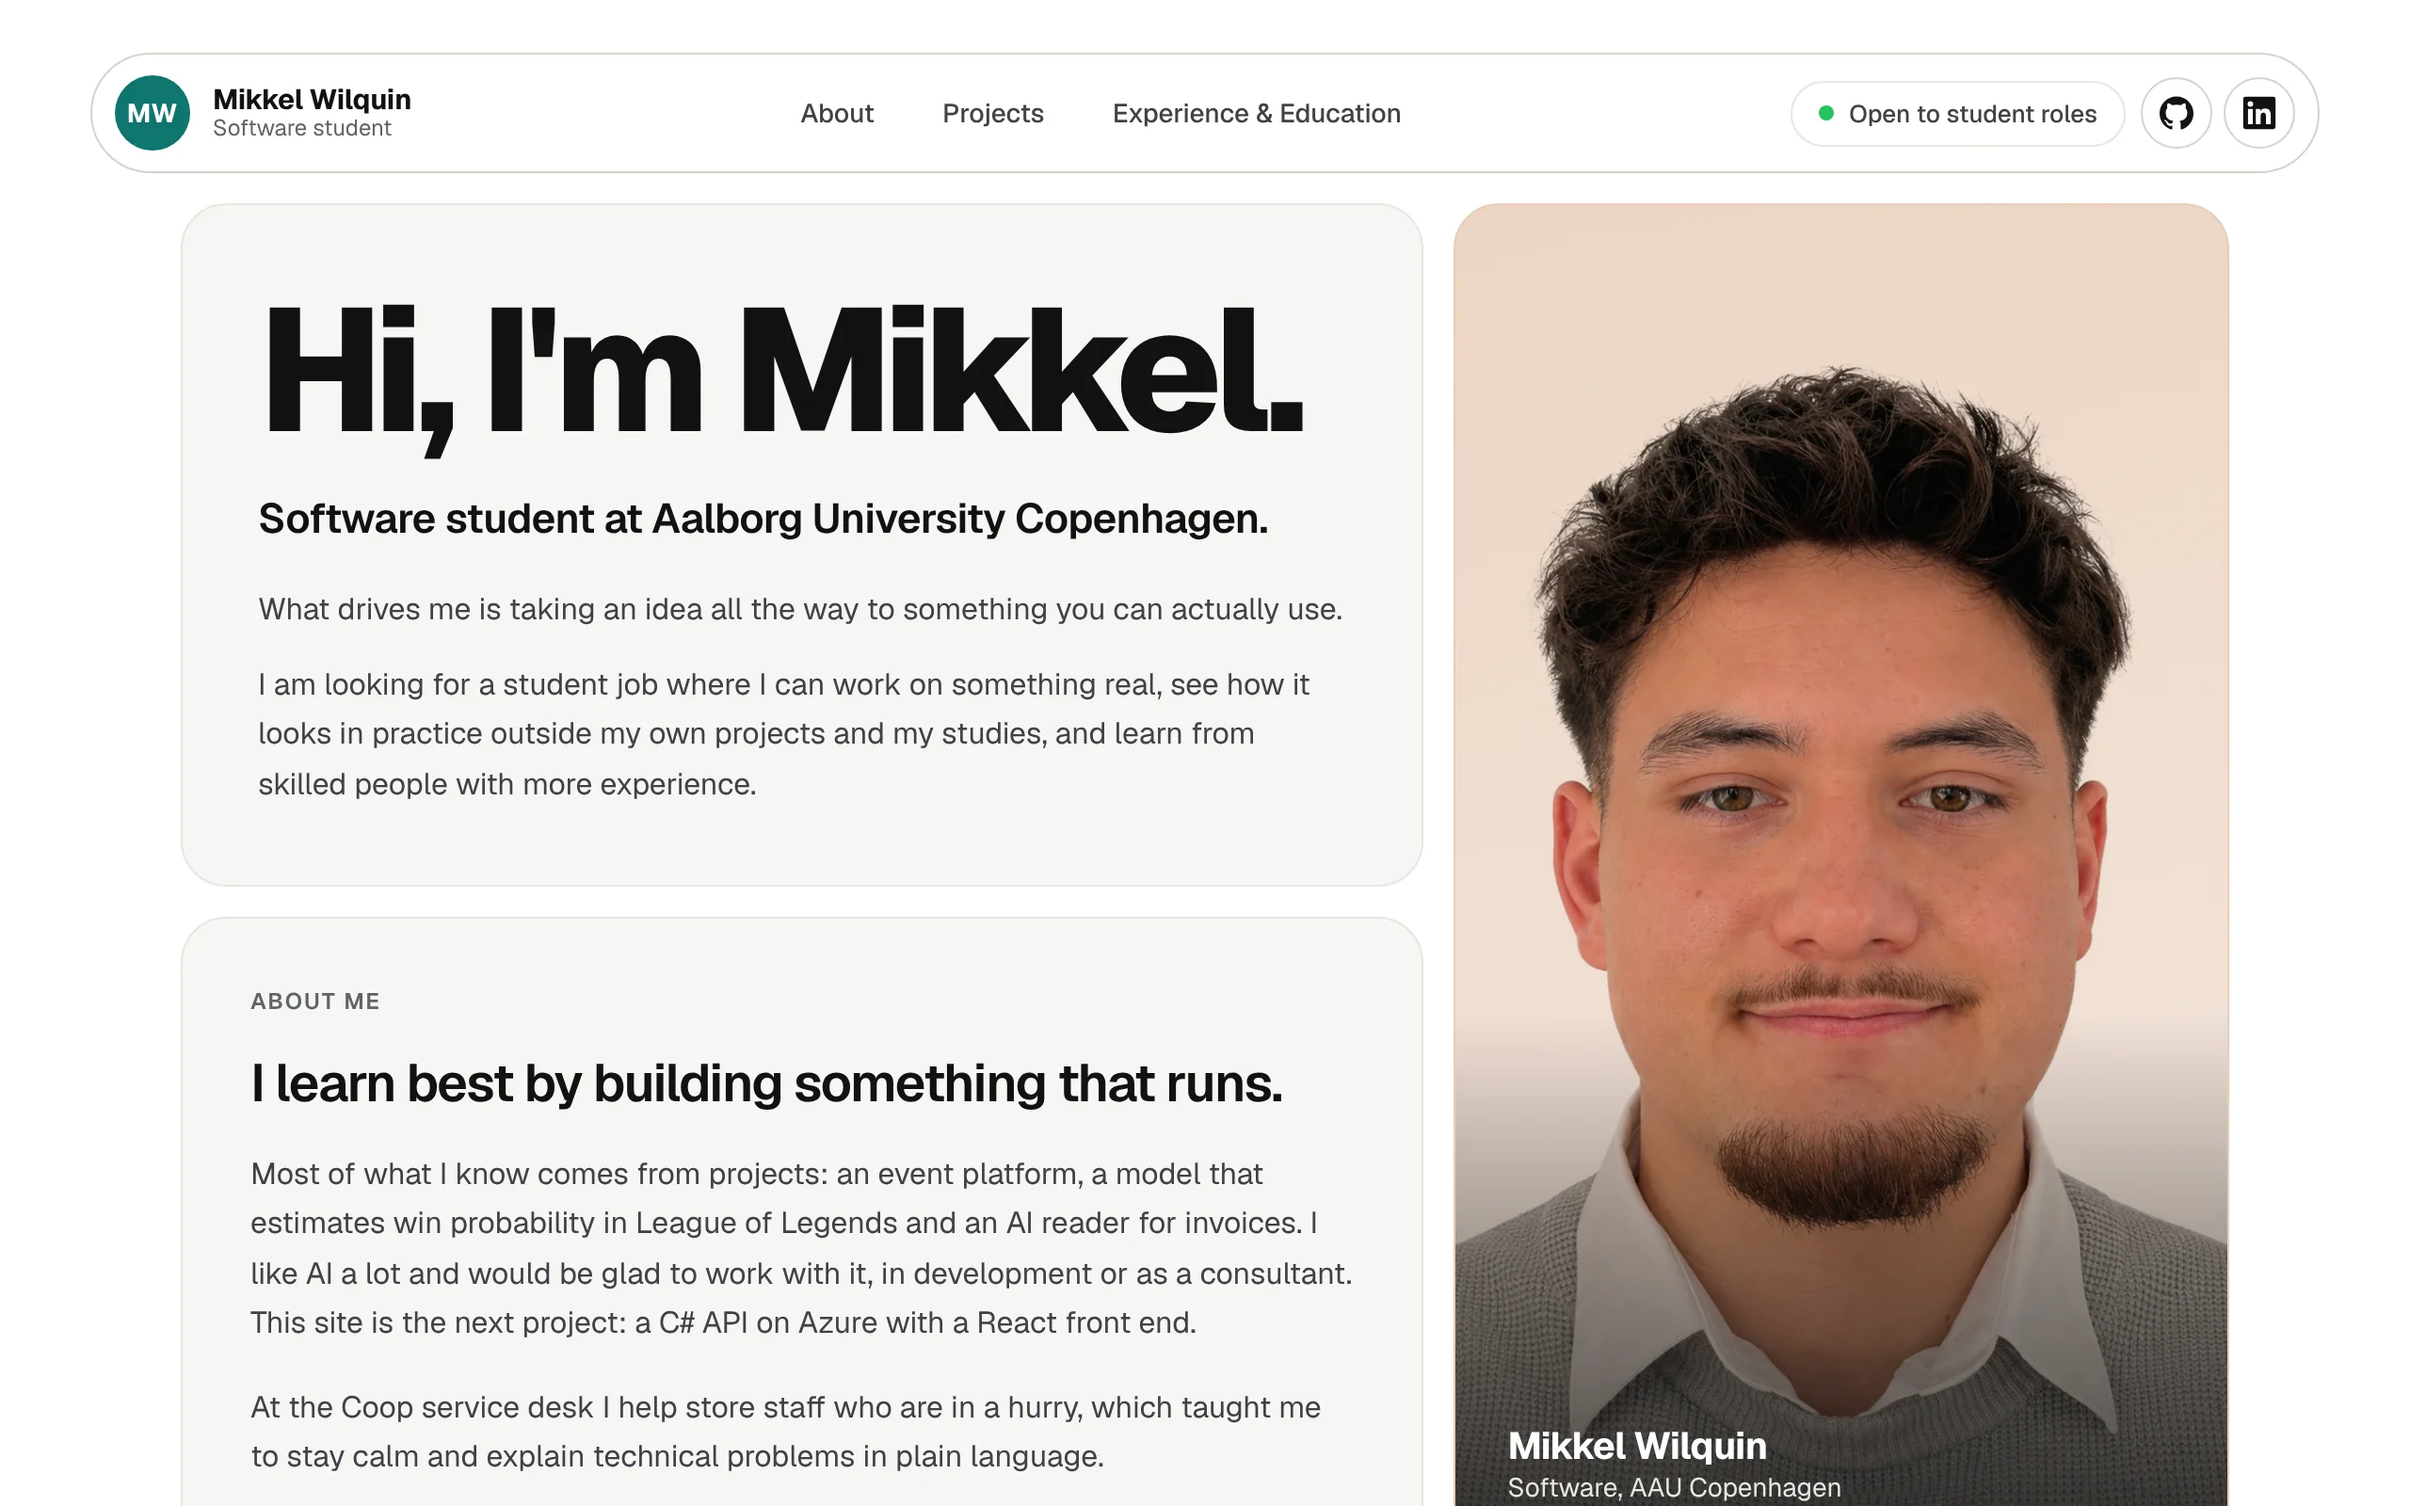
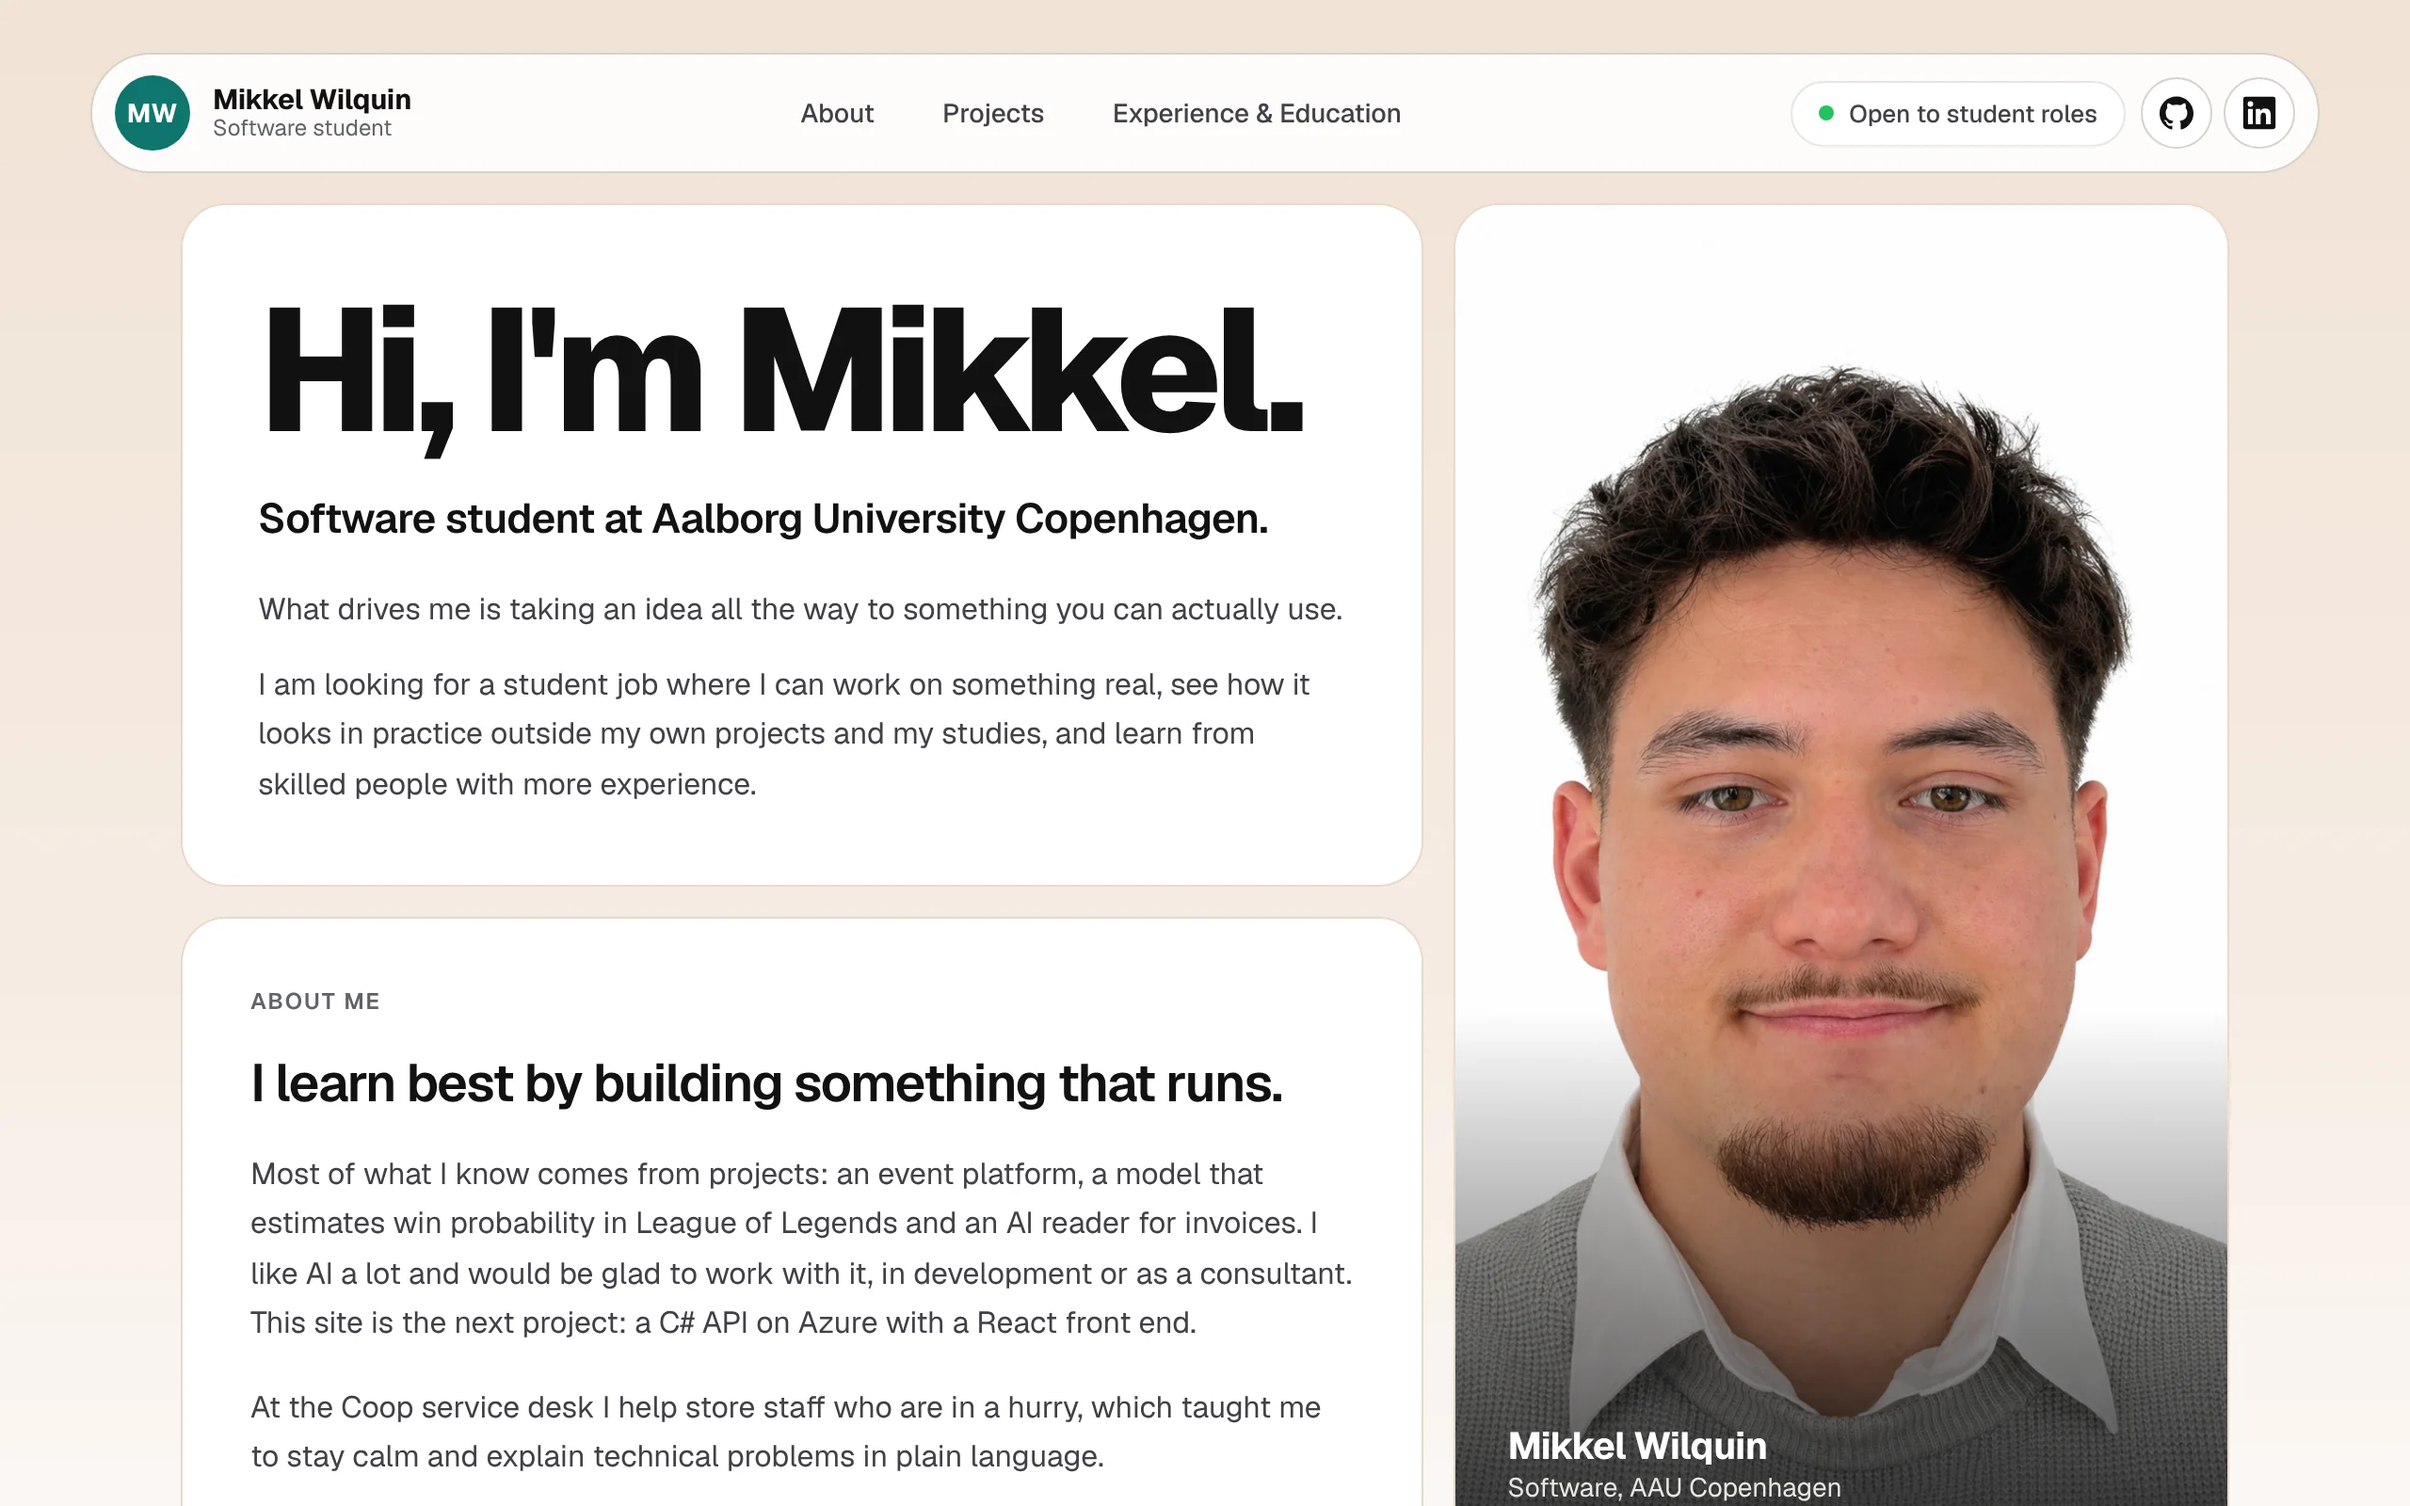
Beige page background, white cards and white portrait background

Changed region(s): [[0.0, 0.0, 1.0, 0.8438]]

diff --git a/portfolio-web/src/components/Hero.css b/portfolio-web/src/components/Hero.css
@@ -53,12 +53,10 @@
   position: relative;
   overflow: hidden;
   min-height: 0;
-  background: linear-gradient(165deg, #EDD6C4 0%, #F6EAE2 100%);
-  border-color: #E8CDB7;
+  background: #FFFFFF;
 }
 
 .hero-photo img {
-  mix-blend-mode: multiply;
   position: absolute;
   inset: 0;
   width: 100%;

diff --git a/portfolio-web/src/App.css b/portfolio-web/src/App.css
@@ -5,6 +5,16 @@
   margin: 16px var(--gutter) 0;
 }
 
+.top .hero-main,
+.top .about-me {
+  background: #FFFFFF;
+  border-color: #EAD9CB;
+}
+
+.top .hero-photo {
+  border-color: #EAD9CB;
+}
+
 .top > .about {
   grid-column: 1;
 }

diff --git a/portfolio-web/src/index.css b/portfolio-web/src/index.css
@@ -20,7 +20,7 @@
 
 body {
   margin: 0;
-  background: var(--bg);
+  background: linear-gradient(#F1E2D5 0, #F6ECE3 520px, #FFFFFF 980px) no-repeat var(--bg);
   color: var(--text);
   font-family: 'Geist', system-ui, sans-serif;
 }
